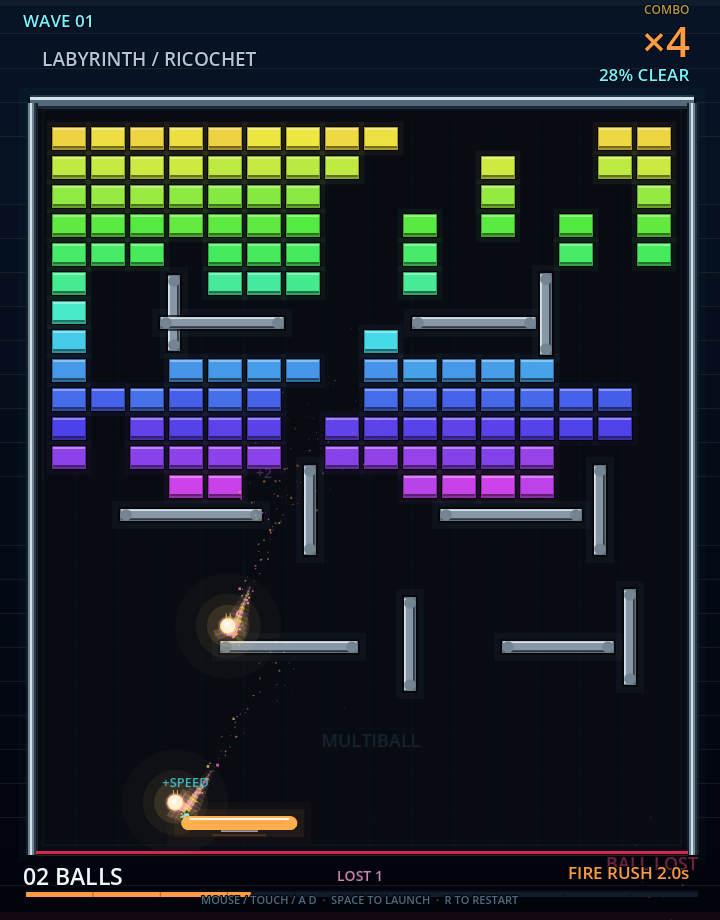
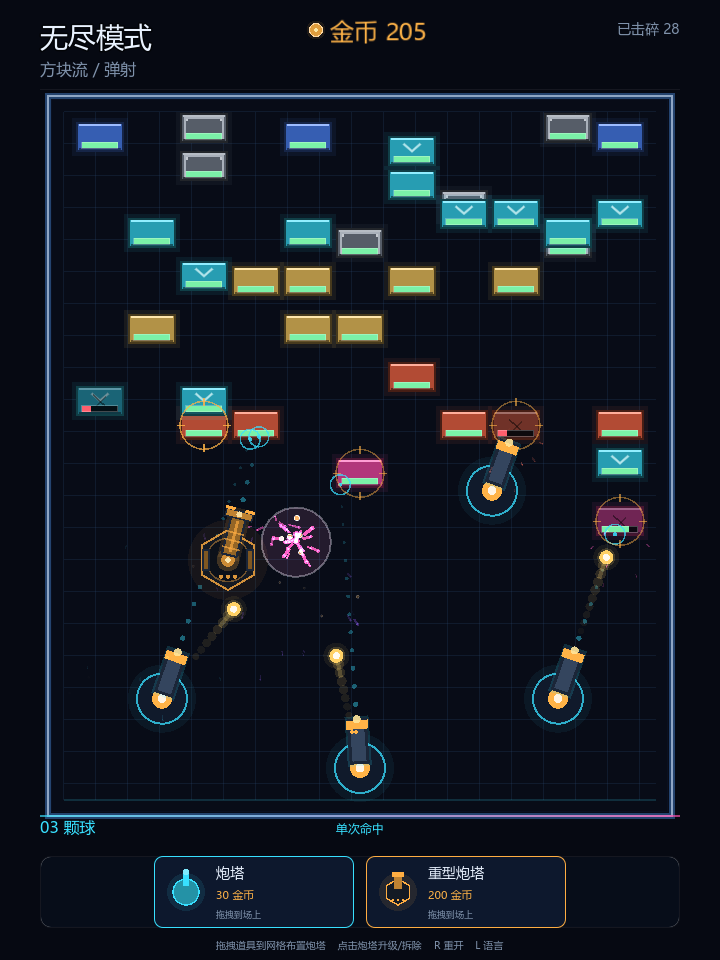
docs: 更新游戏截图并添加截图工具

diff --git a/README.md b/README.md
@@ -6,9 +6,9 @@
 
 玩家消灭眼前的敌人可以获得金币；金币用来布置更多炮塔，也可以点击已布置的炮塔，在聚焦面板里手动升级攻击力。
 
-游戏界面类似下图，不过底部有一个可拖拽的炮塔道具栏。炮塔自动锁定目标并持续开火，玩家负责在升级时选择强化，并用金币布置炮塔。
+游戏界面如下图：中间是持续下滚的方块流，底部是可拖拽的炮塔道具栏，顶部显示金币和击碎数。炮塔自动锁定目标并持续开火，玩家负责用金币布置炮塔、升级攻击力。
 
-![alt text](image.png)
+![游戏截图：方块流、炮塔与底部道具栏](image.png)
 
 ## 当前版本
 
@@ -90,6 +90,14 @@ Godot_v4.7.2-stable_win64.exe --headless --fixed-fps 60 --path . res://tools/smo
 
 覆盖：默认中文语言包、英文 key 完整性、无默认炮塔、开局 5 秒准备/准备期无方块、方块从顶部视野外进入、开局 30 金币、方块流滚动、波次出怪密度/血量成长、四类怪物的血量/速度差异与粗血条、网格吸附布置/四边边缘格子/扣费/非法位置、自动索敌开火、点击炮塔金币升级攻击力、无目标隐藏锁定线、弹跳耗尽消失、方块击碎、金币奖励、命中粒子、聚焦面板与拆除退款。
 
+## 更新截图
+
+```bash
+Godot_v4.7.2-stable_win64.exe --path . res://tools/screenshot.tscn
+```
+
+脚本会先快进让方块流铺满场地，再布置示例炮塔并开火，最后把当前画面保存为 `image.png`。
+
 ## 文件结构
 
 ```
@@ -113,4 +121,5 @@ i18n/zh_CN.json             中文翻译表（默认）
 i18n/en.json                英文翻译表
 theme/game_theme.tres       全局 UI 字体（含 CJK 回退）
 tools/smoke_test.tscn/gd    无头冒烟测试
+tools/screenshot.tscn/gd    截图工具：生成 README 用的 image.png
 ```
